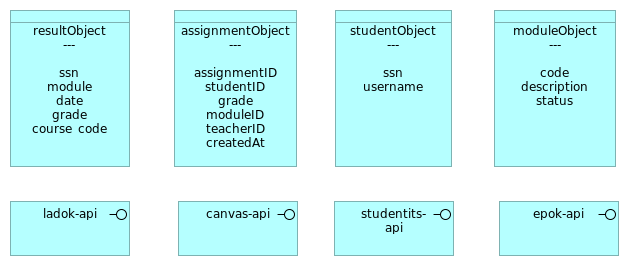
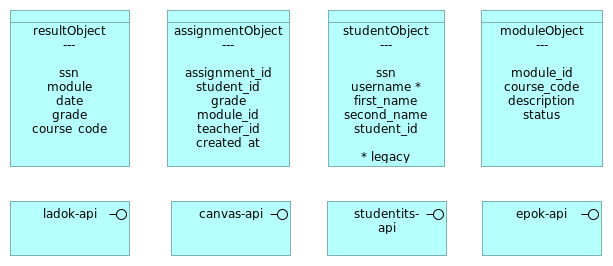
Updates to the Archi documentation

diff --git a/docs/id-82908d6c2a3047ff9637ec8682247159/elements/model.html b/docs/id-82908d6c2a3047ff9637ec8682247159/elements/model.html
@@ -182,6 +182,7 @@
 										dataFoldersContent.push({folderid:"id-56eb2f5ee0cb422ca87d9def7135ffac", contentid:"id-151517e8c7364031af939ad01e670fe1", contenttype:"DataObject"});
 											dataElements.push({id:"id-151517e8c7364031af939ad01e670fe1", type:"DataObject", name:decodeURL("moduleObject"), documentation:decodeURL("")});
 														dataProperties.push({conceptid:"id-151517e8c7364031af939ad01e670fe1", propkey:decodeURL("code"), propvalue:decodeURL("")});
+														dataProperties.push({conceptid:"id-151517e8c7364031af939ad01e670fe1", propkey:decodeURL("course_code"), propvalue:decodeURL("")});
 														dataProperties.push({conceptid:"id-151517e8c7364031af939ad01e670fe1", propkey:decodeURL("description"), propvalue:decodeURL("")});
 														dataProperties.push({conceptid:"id-151517e8c7364031af939ad01e670fe1", propkey:decodeURL("status"), propvalue:decodeURL("")});
 
@@ -217,7 +218,10 @@
 										dataFoldersContent.push({folderid:"id-c375dd42c7ea4abdb7bd99a78c9f97d4", contentid:"id-c0e9b91c4c7a47148e517ddef5a40082", contenttype:"DataObject"});
 											dataElements.push({id:"id-c0e9b91c4c7a47148e517ddef5a40082", type:"DataObject", name:decodeURL("studentObject"), documentation:decodeURL("")});
 														dataProperties.push({conceptid:"id-c0e9b91c4c7a47148e517ddef5a40082", propkey:decodeURL("ssn"), propvalue:decodeURL("string")});
-														dataProperties.push({conceptid:"id-c0e9b91c4c7a47148e517ddef5a40082", propkey:decodeURL("username"), propvalue:decodeURL("string")});
+														dataProperties.push({conceptid:"id-c0e9b91c4c7a47148e517ddef5a40082", propkey:decodeURL("username"), propvalue:decodeURL("string+-+legacy+-+replaced+by+student_id")});
+														dataProperties.push({conceptid:"id-c0e9b91c4c7a47148e517ddef5a40082", propkey:decodeURL("first_name"), propvalue:decodeURL("string")});
+														dataProperties.push({conceptid:"id-c0e9b91c4c7a47148e517ddef5a40082", propkey:decodeURL("second_name"), propvalue:decodeURL("string")});
+														dataProperties.push({conceptid:"id-c0e9b91c4c7a47148e517ddef5a40082", propkey:decodeURL("student_id"), propvalue:decodeURL("string")});
 
 
 									dataFoldersContent.push({folderid:"id-41101e511b9346eb9099fa5d0401b239", contentid:"id-43fb296188df4942a7571114bfc0e2fc", contenttype:"Folder"});
@@ -226,12 +230,12 @@
 											dataElements.push({id:"id-a6f6af94029448a9932452a6a346e951", type:"ApplicationComponent", name:decodeURL("Canvas"), documentation:decodeURL("")});
 										dataFoldersContent.push({folderid:"id-43fb296188df4942a7571114bfc0e2fc", contentid:"id-c87ce9ba62684dceae6abeab8146372a", contenttype:"DataObject"});
 											dataElements.push({id:"id-c87ce9ba62684dceae6abeab8146372a", type:"DataObject", name:decodeURL("assignmentObject"), documentation:decodeURL("")});
-														dataProperties.push({conceptid:"id-c87ce9ba62684dceae6abeab8146372a", propkey:decodeURL("assignmentID"), propvalue:decodeURL("")});
-														dataProperties.push({conceptid:"id-c87ce9ba62684dceae6abeab8146372a", propkey:decodeURL("studentID"), propvalue:decodeURL("")});
+														dataProperties.push({conceptid:"id-c87ce9ba62684dceae6abeab8146372a", propkey:decodeURL("assignment_id"), propvalue:decodeURL("")});
+														dataProperties.push({conceptid:"id-c87ce9ba62684dceae6abeab8146372a", propkey:decodeURL("student_id"), propvalue:decodeURL("")});
 														dataProperties.push({conceptid:"id-c87ce9ba62684dceae6abeab8146372a", propkey:decodeURL("grade"), propvalue:decodeURL("")});
-														dataProperties.push({conceptid:"id-c87ce9ba62684dceae6abeab8146372a", propkey:decodeURL("moduleID"), propvalue:decodeURL("")});
-														dataProperties.push({conceptid:"id-c87ce9ba62684dceae6abeab8146372a", propkey:decodeURL("teacherID"), propvalue:decodeURL("")});
-														dataProperties.push({conceptid:"id-c87ce9ba62684dceae6abeab8146372a", propkey:decodeURL("createdAt"), propvalue:decodeURL("")});
+														dataProperties.push({conceptid:"id-c87ce9ba62684dceae6abeab8146372a", propkey:decodeURL("module_id"), propvalue:decodeURL("")});
+														dataProperties.push({conceptid:"id-c87ce9ba62684dceae6abeab8146372a", propkey:decodeURL("teacher_id"), propvalue:decodeURL("")});
+														dataProperties.push({conceptid:"id-c87ce9ba62684dceae6abeab8146372a", propkey:decodeURL("created_at"), propvalue:decodeURL("")});
 
 										dataFoldersContent.push({folderid:"id-43fb296188df4942a7571114bfc0e2fc", contentid:"id-7acbe8fb0e4f4e6a8da4bddd12b36d90", contenttype:"ApplicationInterface"});
 											dataElements.push({id:"id-7acbe8fb0e4f4e6a8da4bddd12b36d90", type:"ApplicationInterface", name:decodeURL("canvas-api"), documentation:decodeURL("")});

diff --git a/docs/id-82908d6c2a3047ff9637ec8682247159/views/id-433567b349cc4f738685d63f04851a12.html b/docs/id-82908d6c2a3047ff9637ec8682247159/views/id-433567b349cc4f738685d63f04851a12.html
@@ -34,13 +34,13 @@
 		    <!-- If this is a digram model (has children and no bounds) show the image -->
 			   <img class="diagram" src="../images/id-433567b349cc4f738685d63f04851a12.png" alt="domain-objects" usemap="#id-433567b349cc4f738685d63f04851a12map"/>
 			   <map name="id-433567b349cc4f738685d63f04851a12map">
-				  		<area shape="rect" coords="334,201,454,256" href="../elements/id-346964bb094d46d99e92f222a5b92e50.html"  target="element">
+				  		<area shape="rect" coords="327,201,447,256" href="../elements/id-346964bb094d46d99e92f222a5b92e50.html"  target="element">
 				  		<area shape="rect" coords="10,201,130,256" href="../elements/id-f9f320db1a9345f59f09694fab467762.html"  target="element">
-				  		<area shape="rect" coords="499,201,619,256" href="../elements/id-ac888b88e89b40abb0757c6ac238ff73.html"  target="element">
-				  		<area shape="rect" coords="178,201,298,256" href="../elements/id-7acbe8fb0e4f4e6a8da4bddd12b36d90.html"  target="element">
-				  		<area shape="rect" coords="335,10,452,167" href="../elements/id-c0e9b91c4c7a47148e517ddef5a40082.html"  target="element">
-				  		<area shape="rect" coords="494,10,616,167" href="../elements/id-151517e8c7364031af939ad01e670fe1.html"  target="element">
-				  		<area shape="rect" coords="174,10,297,167" href="../elements/id-c87ce9ba62684dceae6abeab8146372a.html"  target="element">
+				  		<area shape="rect" coords="482,201,602,256" href="../elements/id-ac888b88e89b40abb0757c6ac238ff73.html"  target="element">
+				  		<area shape="rect" coords="171,201,291,256" href="../elements/id-7acbe8fb0e4f4e6a8da4bddd12b36d90.html"  target="element">
+				  		<area shape="rect" coords="328,10,445,167" href="../elements/id-c0e9b91c4c7a47148e517ddef5a40082.html"  target="element">
+				  		<area shape="rect" coords="481,10,603,167" href="../elements/id-151517e8c7364031af939ad01e670fe1.html"  target="element">
+				  		<area shape="rect" coords="167,10,290,167" href="../elements/id-c87ce9ba62684dceae6abeab8146372a.html"  target="element">
 				  		<area shape="rect" coords="10,10,130,167" href="../elements/id-1fa878eb46c446468b2b6c6aebd1f1be.html"  target="element">
 
 			   </map>

diff --git a/docs/id-82908d6c2a3047ff9637ec8682247159/elements/id-c87ce9ba62684dceae6abeab8146372a.html b/docs/id-82908d6c2a3047ff9637ec8682247159/elements/id-c87ce9ba62684dceae6abeab8146372a.html
@@ -57,7 +57,7 @@
 								</tr>
 							</thead>
 							<tbody>
-								<tr><td> assignmentID </td><td class="convertlinks"> <xmp class="no-margin" style="white-space:pre-wrap"></xmp> </td></tr><tr><td> studentID </td><td class="convertlinks"> <xmp class="no-margin" style="white-space:pre-wrap"></xmp> </td></tr><tr><td> grade </td><td class="convertlinks"> <xmp class="no-margin" style="white-space:pre-wrap"></xmp> </td></tr><tr><td> moduleID </td><td class="convertlinks"> <xmp class="no-margin" style="white-space:pre-wrap"></xmp> </td></tr><tr><td> teacherID </td><td class="convertlinks"> <xmp class="no-margin" style="white-space:pre-wrap"></xmp> </td></tr><tr><td> createdAt </td><td class="convertlinks"> <xmp class="no-margin" style="white-space:pre-wrap"></xmp> </td></tr>
+								<tr><td> assignment_id </td><td class="convertlinks"> <xmp class="no-margin" style="white-space:pre-wrap"></xmp> </td></tr><tr><td> student_id </td><td class="convertlinks"> <xmp class="no-margin" style="white-space:pre-wrap"></xmp> </td></tr><tr><td> grade </td><td class="convertlinks"> <xmp class="no-margin" style="white-space:pre-wrap"></xmp> </td></tr><tr><td> module_id </td><td class="convertlinks"> <xmp class="no-margin" style="white-space:pre-wrap"></xmp> </td></tr><tr><td> teacher_id </td><td class="convertlinks"> <xmp class="no-margin" style="white-space:pre-wrap"></xmp> </td></tr><tr><td> created_at </td><td class="convertlinks"> <xmp class="no-margin" style="white-space:pre-wrap"></xmp> </td></tr>
 							</tbody>
 						</table>
 					</div>

diff --git a/docs/id-82908d6c2a3047ff9637ec8682247159/elements/id-c0e9b91c4c7a47148e517ddef5a40082.html b/docs/id-82908d6c2a3047ff9637ec8682247159/elements/id-c0e9b91c4c7a47148e517ddef5a40082.html
@@ -57,7 +57,7 @@
 								</tr>
 							</thead>
 							<tbody>
-								<tr><td> ssn </td><td class="convertlinks"> <xmp class="no-margin" style="white-space:pre-wrap">string</xmp> </td></tr><tr><td> username </td><td class="convertlinks"> <xmp class="no-margin" style="white-space:pre-wrap">string</xmp> </td></tr>
+								<tr><td> ssn </td><td class="convertlinks"> <xmp class="no-margin" style="white-space:pre-wrap">string</xmp> </td></tr><tr><td> username </td><td class="convertlinks"> <xmp class="no-margin" style="white-space:pre-wrap">string - legacy - replaced by student_id</xmp> </td></tr><tr><td> first_name </td><td class="convertlinks"> <xmp class="no-margin" style="white-space:pre-wrap">string</xmp> </td></tr><tr><td> second_name </td><td class="convertlinks"> <xmp class="no-margin" style="white-space:pre-wrap">string</xmp> </td></tr><tr><td> student_id </td><td class="convertlinks"> <xmp class="no-margin" style="white-space:pre-wrap">string</xmp> </td></tr>
 							</tbody>
 						</table>
 					</div>

diff --git a/docs/id-82908d6c2a3047ff9637ec8682247159/elements/id-151517e8c7364031af939ad01e670fe1.html b/docs/id-82908d6c2a3047ff9637ec8682247159/elements/id-151517e8c7364031af939ad01e670fe1.html
@@ -57,7 +57,7 @@
 								</tr>
 							</thead>
 							<tbody>
-								<tr><td> code </td><td class="convertlinks"> <xmp class="no-margin" style="white-space:pre-wrap"></xmp> </td></tr><tr><td> description </td><td class="convertlinks"> <xmp class="no-margin" style="white-space:pre-wrap"></xmp> </td></tr><tr><td> status </td><td class="convertlinks"> <xmp class="no-margin" style="white-space:pre-wrap"></xmp> </td></tr>
+								<tr><td> code </td><td class="convertlinks"> <xmp class="no-margin" style="white-space:pre-wrap"></xmp> </td></tr><tr><td> course_code </td><td class="convertlinks"> <xmp class="no-margin" style="white-space:pre-wrap"></xmp> </td></tr><tr><td> description </td><td class="convertlinks"> <xmp class="no-margin" style="white-space:pre-wrap"></xmp> </td></tr><tr><td> status </td><td class="convertlinks"> <xmp class="no-margin" style="white-space:pre-wrap"></xmp> </td></tr>
 							</tbody>
 						</table>
 					</div>

diff --git a/README.md b/README.md
@@ -65,7 +65,7 @@ Some of the repositories use GitHub Actions to build artifacts, run tests etc. S
 
 # University systems
 This is an overview of the current university systems and approximately how the data is shared between them.
-![](./university_system_overview.png)
+![](./<university_system_overview class="png"></university_system_overview>)
 
 
 # Target SOA overview
